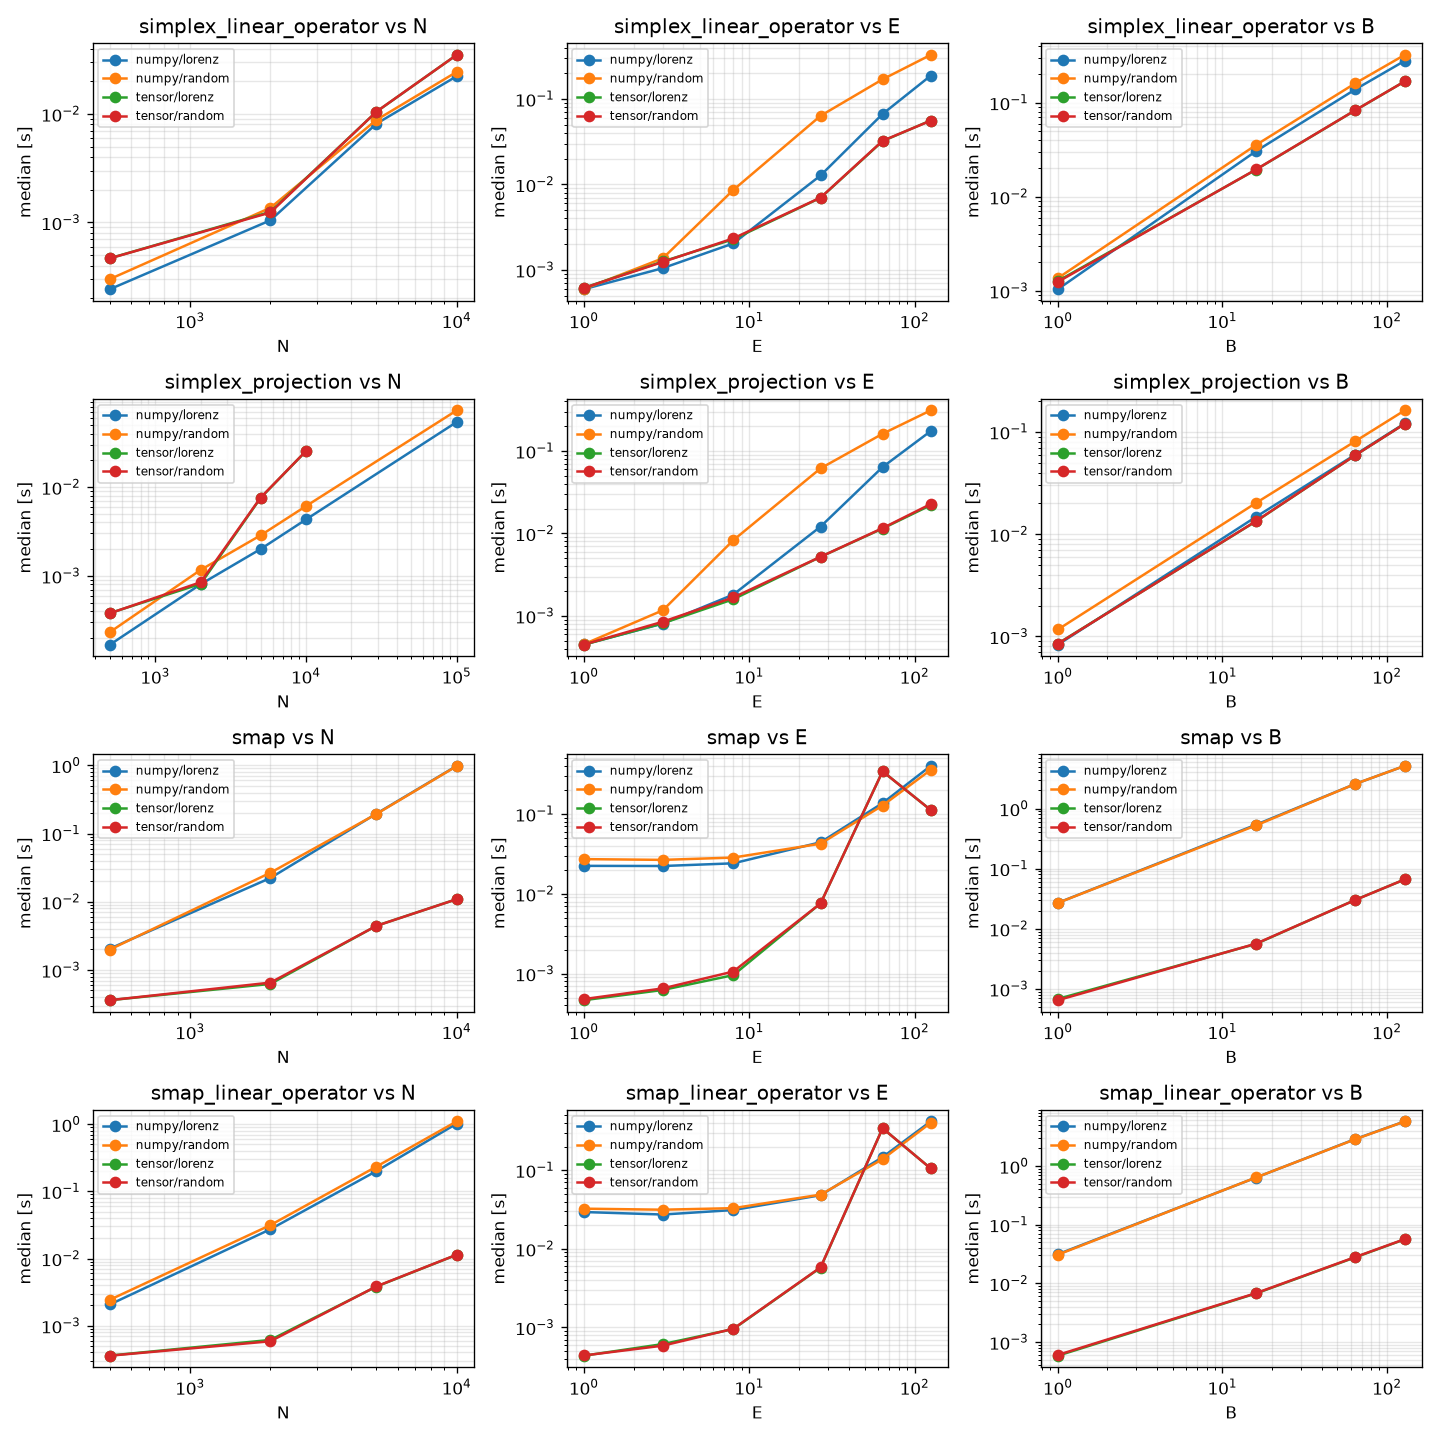
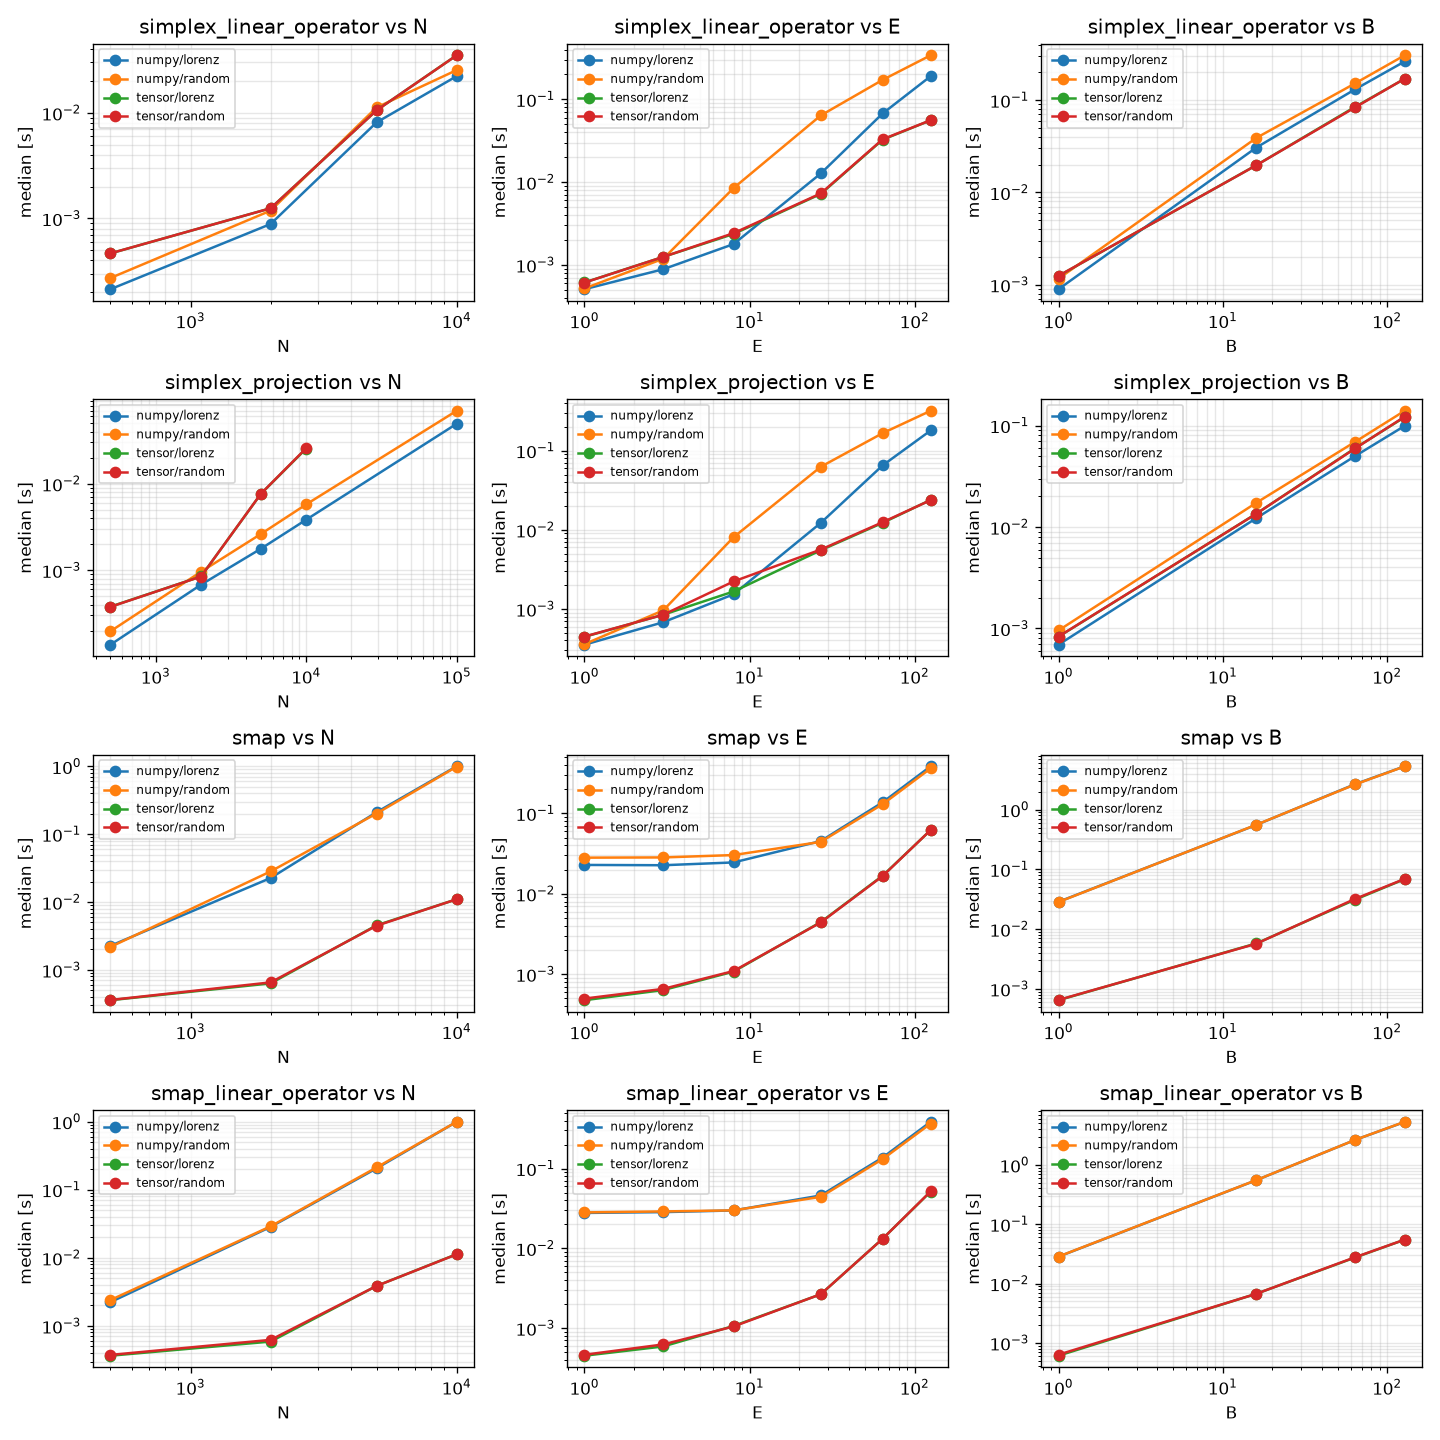
speed up simplex projection and refresh benchmarks

diff --git a/src/edmkit/simplex_projection/knn.py b/src/edmkit/simplex_projection/knn.py
@@ -32,38 +32,34 @@ def knn(X: np.ndarray, Q: np.ndarray, k: int, mask: Mask | None = None) -> tuple
     if N < k:
         raise ValueError(f"Not enough points in X to find {k} neighbors, got N={N}")
 
-    tree = KDTree(X)
-    if mask is None:
+    # smaller leaves improve pruning in low dimensions.
+    tree = KDTree(X, leafsize=16 if X.shape[-1] <= 8 else 32)
+    if mask is None or len(Q) == 0:
         return tree.query(Q, k=k)
 
     distances = np.empty((Q.shape[0], k))
     indices = np.empty((Q.shape[0], k), dtype=np.intp)
 
-    def fetch(pending: np.ndarray, k_query: int) -> np.ndarray:
-        """Fill `distances` and `indices` with the k nearest neighbors for the `pending` queries, returning the queries that still need more neighbors."""
+    pending = np.arange(Q.shape[0])
+    k_query = min(k + 1, N)
 
-        # over fetch (k_query > k)
-        _distances, _indices = tree.query(Q[pending], k=k_query)
+    while pending.size > 0:
+        _distances, _indices = tree.query(Q if pending.size == len(Q) else Q[pending], k=k_query)
 
-        # evaluate the mask and filter the resultss
+        # evaluate the mask and keep the first k valid candidates.
         valid = np.broadcast_to(np.asarray(mask(pending[:, None], _indices), dtype=bool), _indices.shape)
         count = valid.sum(axis=-1)
 
         if k_query == N and count.min() < k:
             raise ValueError(f"Not enough unmasked points in X to find {k} neighbors, got {count.min()} for some query")
 
-        # take the first k valid neighbors for the queries that have them
         done = count >= k
-        first_k = valid[done] & (np.cumsum(valid[done], axis=-1) <= k)
-        distances[pending[done]] = _distances[done][first_k].reshape(-1, k)
-        indices[pending[done]] = _indices[done][first_k].reshape(-1, k)
+        if done.any():
+            first_k = valid & (valid.cumsum(axis=-1, dtype=np.uint32) <= k) & done[:, None]
+            distances[pending[done]] = _distances[first_k].reshape(-1, k)
+            indices[pending[done]] = _indices[first_k].reshape(-1, k)
 
-        return pending[~done]
-
-    k_query = min(k + 1, N)
-    pending = fetch(np.arange(Q.shape[0]), k_query)
-    while pending.size > 0:
+        pending = pending[~done]
         k_query = min(2 * k_query, N)
-        pending = fetch(pending, k_query)
 
     return distances, indices

diff --git a/src/edmkit/simplex_projection/simplex_projection.py b/src/edmkit/simplex_projection/simplex_projection.py
@@ -145,8 +145,6 @@ def _numpy(
     # treat the unbatched case as a single batch
     if X.ndim == 2:
         X, Y, Q = X[None], Y[None], Q[None]
-        if mask is not None:
-            mask = lambda _, *index, mask=mask: mask(*index)
 
     B, _, E = X.shape
     M = Q.shape[1]
@@ -154,19 +152,18 @@ def _numpy(
     if k <= 0:
         raise ValueError(f"k must be positive, got k={k}")
 
-    distances = np.empty((B, M, k))
-    indices = np.empty((B, M, k), dtype=np.intp)
+    predictions = np.empty((B, M, Y.shape[-1]), dtype=np.result_type(np.float64, Y.dtype))
     for b in range(B):
-        distances[b], indices[b] = knn(X[b], Q[b], k, None if mask is None else partial(mask, b))
+        distances, indices = knn(X[b], Q[b], k, partial(mask, b) if return_ndim == 3 and mask is not None else mask)
 
-    batch_index = np.arange(B)[:, None, None]  # (B, 1, 1)
-    Y_neighbors = Y[batch_index, indices]  # (B, M, k, E')
+        # Neighbors are sorted. Clamp the scale and reuse the distance buffer.
+        d_min = np.fmax(distances[:, :1], 1e-6)
+        np.divide(distances, -d_min, out=distances)
+        weights = np.exp(distances, out=distances)
 
-    # clamp to avoid division by zero
-    d_min = np.fmax(distances.min(axis=-1, keepdims=True), 1e-6)  # (B, M, 1)
-    weights = np.exp(-distances / d_min)  # (B, M, k)
-
-    predictions = np.matmul(weights[..., None, :], Y_neighbors).squeeze(-2) / weights.sum(axis=-1, keepdims=True)  # (B, M, E')
+        prediction = predictions[b]
+        np.matmul(weights[:, None, :], Y[b, indices], out=prediction[:, None, :])
+        prediction /= weights.sum(axis=-1, keepdims=True)
 
     if return_ndim == 1:
         return predictions[0, :, 0]  # (M,)

diff --git a/README.md b/README.md
@@ -10,29 +10,39 @@ This library is a collection of tools and utilities that are useful for Empirica
 
 ![](./benchmarks/compare.png)
 
-| simplex N | edmkit [ms] | pyEDM [ms] | speedup |
-|---:|---:|---:|---:|
-| 500 | 0.2 | 1.4 | 8x |
-| 1,000 | 0.4 | 2.3 | 5x |
-| 2,000 | 0.9 | 4.2 | 5x |
-| 5,000 | 2.3 | 10.7 | 5x |
-| 10,000 | 4.9 | 22.8 | 5x |
-| 20,000 | 10.3 | 46.8 | 5x |
+Measured on an Apple M4 Pro on November 4, 2026. Times are medians from `pytest-benchmark`. Parallel CCM uses 14 workers. Peak memory is process-tree RSS in MiB, sampled separately from timing for each case. It includes the interpreter, input, and worker processes. Summed RSS can count shared pages in more than one process.
 
-| smap N | edmkit [ms] | pyEDM [ms] | speedup |
-|---:|---:|---:|---:|
-| 500 | 1.9 | 38.0 | 20x |
-| 1,000 | 7.5 | 132.1 | 18x |
-| 2,000 | 21.6 | 522.6 | 24x |
-| 5,000 | 183.7 | 3,364 | 18x |
+| simplex N | edmkit [ms] | pyEDM [ms] | speedup | edmkit peak [MiB] | pyEDM peak [MiB] |
+| ---: | ---: | ---: | ---: | ---: | ---: |
+| 500 | 0.17 | 1.5 | 9.0× | 168 | 169 |
+| 1,000 | 0.39 | 2.4 | 6.1× | 169 | 170 |
+| 2,000 | 0.81 | 4.4 | 5.5× | 168 | 170 |
+| 5,000 | 2.2 | 11.5 | 5.3× | 170 | 175 |
+| 10,000 | 4.7 | 23.8 | 5.0× | 172 | 180 |
+| 20,000 | 10.2 | 50.3 | 4.9× | 176 | 193 |
+
+| smap N | edmkit [ms] | pyEDM [ms] | speedup | edmkit peak [MiB] | pyEDM peak [MiB] |
+| ---: | ---: | ---: | ---: | ---: | ---: |
+| 500 | 2.1 | 36.6 | 17.9× | 176 | 180 |
+| 1,000 | 8.7 | 128.3 | 14.7× | 192 | 216 |
+| 2,000 | 22.0 | 513.6 | 23.4× | 261 | 357 |
+| 5,000 | 193.9 | 3,376.7 | 17.4× | 744 | 1,344 |
 
 | ccm N | edmkit [ms] | pyEDM [ms] | speedup | edmkit parallel [ms] | pyEDM parallel [ms] | speedup |
-|---:|---:|---:|---:|---:|---:|---:|
-| 500 | 116.7 | 148.4 | 1.3x | 22.0 | 64.5 | 2.9x |
-| 1,000 | 197.1 | 316.8 | 1.6x | 31.8 | 89.7 | 2.8x |
-| 2,000 | 382.8 | 696.8 | 1.8x | 58.6 | 133.8 | 2.3x |
-| 5,000 | 788.0 | 1,863 | 2.4x | 108.9 | 283.5 | 2.6x |
-| 10,000 | 1,470 | 4,166 | 2.8x | 197.0 | 558.9 | 2.8x |
+| ---: | ---: | ---: | ---: | ---: | ---: | ---: |
+| 500 | 106.4 | 151.7 | 1.4× | 19.5 | 68.0 | 3.5× |
+| 1,000 | 168.4 | 327.0 | 1.9× | 26.3 | 91.9 | 3.5× |
+| 2,000 | 329.7 | 745.1 | 2.3× | 48.8 | 148.3 | 3.0× |
+| 5,000 | 668.9 | 1,945.7 | 2.9× | 97.4 | 397.5 | 4.1× |
+| 10,000 | 1,253.6 | 4,176.7 | 3.3× | 164.6 | 585.4 | 3.6× |
+
+| ccm N | edmkit peak [MiB] | pyEDM peak [MiB] | edmkit parallel peak [MiB] | pyEDM parallel peak [MiB] |
+| ---: | ---: | ---: | ---: | ---: |
+| 500 | 171 | 170 | 191 | 1,417 |
+| 1,000 | 173 | 176 | 196 | 1,429 |
+| 2,000 | 179 | 186 | 207 | 1,460 |
+| 5,000 | 204 | 224 | 239 | 1,624 |
+| 10,000 | 230 | 362 | 297 | 1,804 |
 
 
 ## Installation
